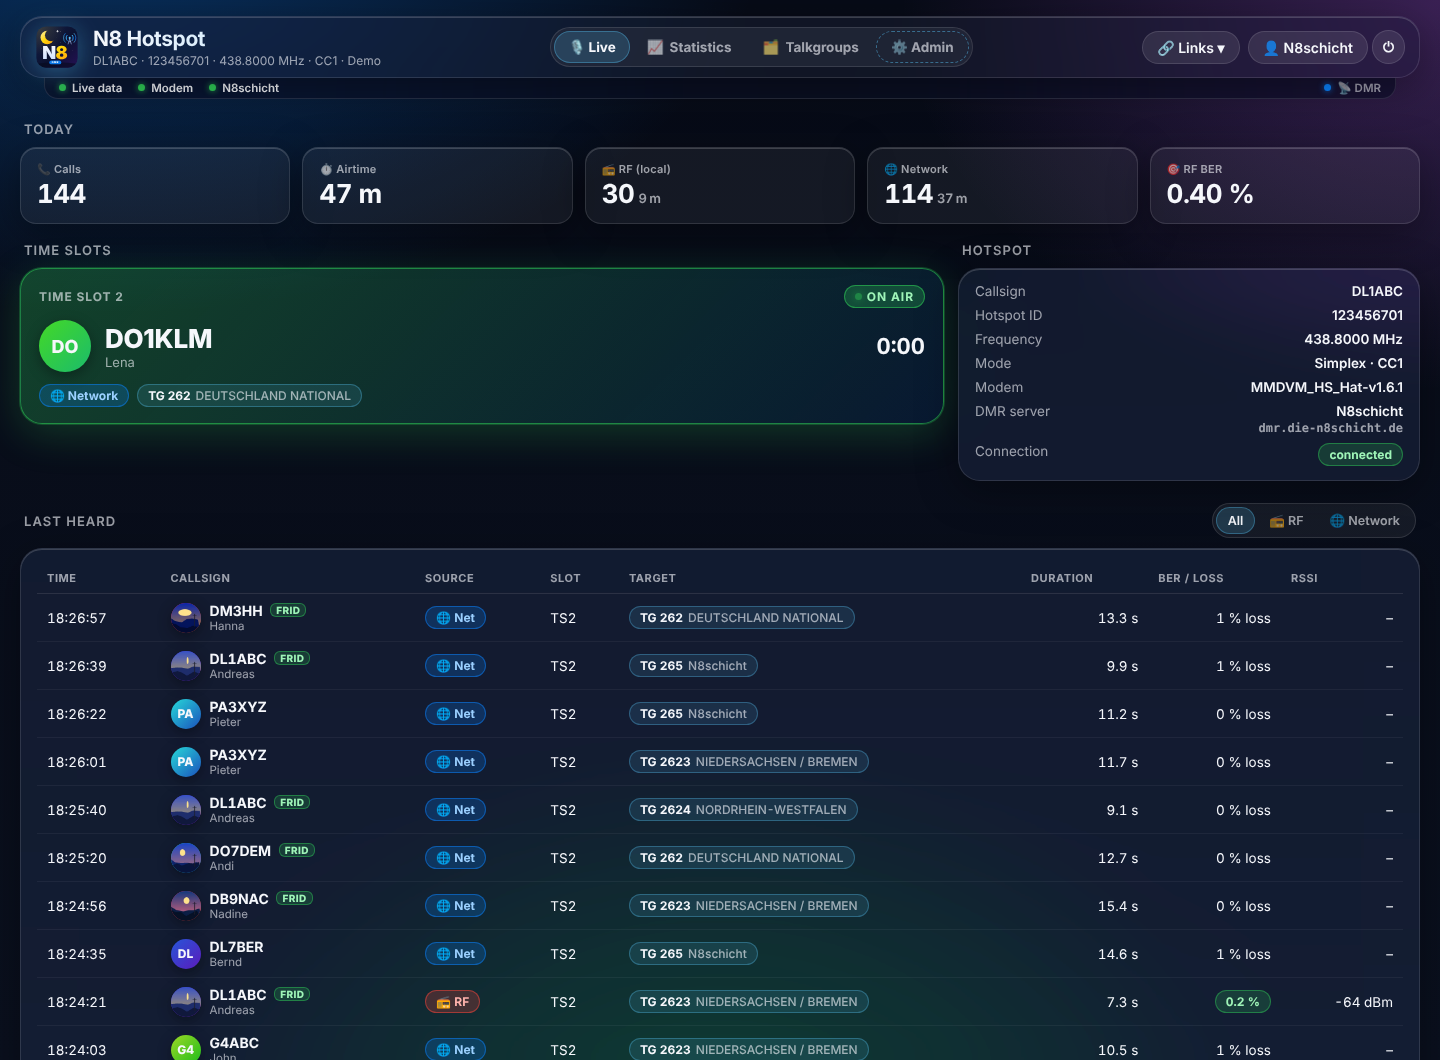
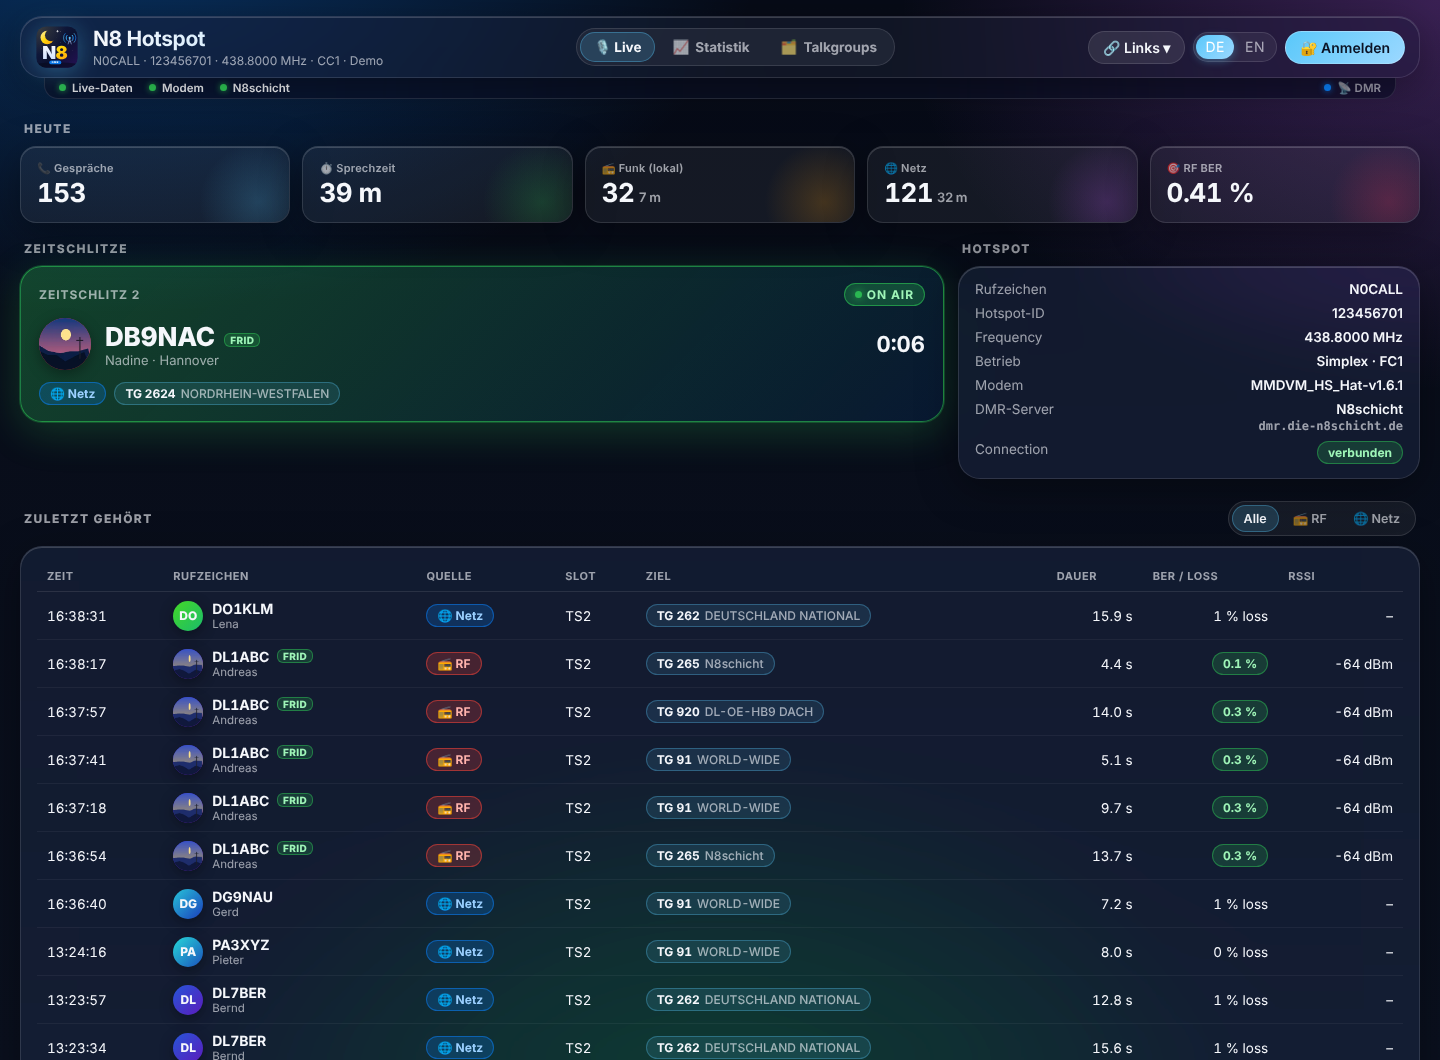
1.4.2: N8 Look – eine Designsprache mit dem HobbyRadioPortal
- static/n8-look.css (identisch im HobbyRadioPortal): durchgehender Hintergrund,
  leuchtende Kennzahl-Kacheln, Abschnittsüberschriften, Fußzeile als Glaskarte
  mit N8-Icon
- Hotspot bleibt eigenständig; im Portal nur als Verweis mit Erreichbarkeit
- Doku: Bedienung „Eine Designsprache mit dem HobbyRadioPortal“, Screenshots
  live.png und footer.png, CHANGELOG

Claude-Session: https://claude.ai/code/session_01J5RG2nh5KG4yZP2DtuvZ9u

diff --git a/static/n8-look.css b/static/n8-look.css
@@ -1,0 +1,30 @@
+/* N8 Look 1.0 – gemeinsame Designsprache von HobbyRadioPortal und N8-HotSpot.
+ * Dieselbe Datei in beiden Repositorys (Portal: portal/static/vendor, Hotspot: static). Sie liegt über N8 Theme 2
+ * und gleicht die Feinheiten an: durchgehender Hintergrund, Abschnittsüberschriften, leuchtende Kennzahl-Kacheln,
+ * ON-AIR-Puls und die Fußzeile als Glaskarte mit Icon. Klassen beider Projekte stehen nebeneinander. */
+
+/* Hintergrund des Themes über die ganze Seitenlänge */
+html { background: var(--bg, #070b17); }
+html body { background-attachment: fixed !important; min-height: 100vh; }
+
+/* Abschnittsüberschriften: klein, gesperrt, Großbuchstaben */
+h2.sec, h2.section-header { font-size: 12px; letter-spacing: .12em; text-transform: uppercase; color: var(--text-dim); font-weight: 780; }
+
+/* Kennzahl-Kacheln mit farbigem Leuchten unten rechts (Farbe über --c-rgb, sonst Akzent) */
+.kpi, .stat { position: relative; overflow: hidden; }
+.kpi::after, .stat::after { content: ''; position: absolute; right: -30px; bottom: -40px; width: 120px; height: 120px; border-radius: 50%;
+    background: radial-gradient(circle, rgba(var(--c-rgb, var(--accent-rgb, 90, 200, 250)), .2), transparent 70%); pointer-events: none; }
+.stat:nth-child(2) { --c-rgb: 48, 209, 88; } .stat:nth-child(3) { --c-rgb: 255, 159, 10; } .stat:nth-child(4) { --c-rgb: 191, 90, 242; } .stat:nth-child(5) { --c-rgb: 255, 55, 95; }
+
+/* ON AIR: pulsierender Punkt */
+.n8-air { width: 7px; height: 7px; border-radius: 50%; display: inline-block; background: #30d158;
+    box-shadow: 0 0 0 3px rgba(48, 209, 88, .25), 0 0 10px rgba(48, 209, 88, .9); animation: n8AirPulse 1.2s ease-in-out infinite; }
+@keyframes n8AirPulse { 50% { opacity: .35; } }
+
+/* Fußzeile als Glaskarte mit Icon */
+footer.ft, .site-footer { border-radius: var(--radius-lg, 22px) !important; padding: 14px 18px !important; gap: 10px 18px !important;
+    background: var(--glass-bg) !important; border: 1px solid var(--glass-border) !important;
+    box-shadow: inset 0 1px 0 var(--glass-highlight), var(--glass-shadow); -webkit-backdrop-filter: var(--glass-blur); backdrop-filter: var(--glass-blur); }
+footer.ft img, .site-footer img.n8-ft-icon { width: 22px; height: 22px; border-radius: 7px; vertical-align: middle; }
+.site-footer .ft-sep { display: none; }
+.site-footer a, footer.ft a { text-decoration: none; color: inherit; } .site-footer a:hover, footer.ft a:hover { color: var(--text); }

diff --git a/static/index.html b/static/index.html
@@ -13,6 +13,7 @@
     <link rel="stylesheet" href="/static/n8-light.css?v=1">
     <script src="/static/n8-theme.js?v=1"></script>
     <link rel="stylesheet" href="/static/n8-header.css?v=1">
+    <link rel="stylesheet" href="/static/n8-look.css?v=1">
     <link rel="stylesheet" href="/static/n8-kit.css?v=1">
     <script src="/static/n8-kit.js?v=1"></script>
     <script src="/static/i18n-app.js?v=1"></script>
@@ -162,6 +163,7 @@
     </section>
 
     <footer class="site-footer">
+        <img class="n8-ft-icon" src="/static/n8schicht-icon.svg" alt="">
         <span>© <span id="footerYear"></span> Die N8schicht</span>
         <span class="ft-sep">·</span><span id="ver" title="Installed version">N8-Hotspot</span>
         <span class="ft-sep">·</span><span id="footerDate" title="Date of the installed version"></span>

diff --git a/CHANGELOG.md b/CHANGELOG.md
@@ -4,6 +4,19 @@ Alle Versionen von **N8-Hotspot** (DMR Die N8schicht), die neueste oben.
 Die Nummern folgen [Semantic Versioning](https://semver.org/lang/de/): `MAJOR.MINOR.PATCH`.
 Wie Versionen und Updates funktionieren, steht in [docs/de/updates.md](docs/de/updates.md).
 
+## [1.4.2] – 2026-11-24
+
+### 🎨 Eine Designsprache mit dem HobbyRadioPortal
+Der N8 Hotspot bleibt **eigenständig** (eigenes Image, eigene Weboberfläche, kein Plugin im Portal), spricht aber jetzt
+dieselbe Designsprache wie das neue [HobbyRadioPortal](https://github.com/dhartmann1979/HobbyRadioPortal):
+- **N8 Look 1.0** (`static/n8-look.css`) – dieselbe Datei wie im Portal (`portal/static/vendor/n8-look.css`). Sie liegt über N8 Theme 2 und gleicht die Feinheiten an:
+  - der Hintergrund des Themes läuft über die ganze Seitenlänge (vorher endete der Farbverlauf nach einer Bildschirmhöhe),
+  - die Kennzahl-Kacheln unter **Heute** leuchten unten rechts in eigener Farbe (Gespräche blau, Sprechzeit grün, Funk orange, Netz violett, BER rot) wie die Kacheln im Portal,
+  - Abschnittsüberschriften klein, gesperrt und in Großbuchstaben wie im Portal,
+  - die **Fußzeile** ist eine Glaskarte mit dem N8-Icon.
+- Im Portal erscheint der Hotspot (abschaltbar) nur als Verweis mit Erreichbarkeitsprüfung – siehe Plugin `hotspot` im Portal.
+- Doku: Screenshot **Live** neu, neuer Screenshot der Fußzeile (`docs/images/footer.png`), Abschnitt „Aussehen“ in der Bedienung ergänzt.
+
 ## [1.4.1] – 2026-11-24
 
 ### 🌐 N8 Kit 1.0.1

diff --git a/docs/de/bedienung.md b/docs/de/bedienung.md
@@ -12,6 +12,18 @@ Dieser Teil ist der **Sichtbereich**: ohne Login sichtbar, solange *Public view*
   <img src="../images/live-mobile.png" alt="Live am Smartphone" width="22%">
 </p>
 
+## 🎨 Eine Designsprache mit dem HobbyRadioPortal
+
+Der N8 Hotspot bleibt eigenständig, sieht aber aus wie das [HobbyRadioPortal](https://github.com/dhartmann1979/HobbyRadioPortal):
+gleiches Farbsystem (N8 Theme 2), gleiche Kopfzeile mit Statusleiste und seit 1.4.2 die gemeinsame Datei **N8 Look**
+(`static/n8-look.css`, identisch im Portal). Sie sorgt für den durchgehenden Hintergrund, die farbig leuchtenden Kacheln
+unter **Heute**, die Abschnittsüberschriften und die Fußzeile als Glaskarte:
+
+<p align="center"><img src="../images/footer.png" alt="Fußzeile im N8 Look" width="90%"></p>
+
+Im Portal kann der Hotspot als Verweis erscheinen (Plugin `hotspot`, Vorgabe aus). Das Portal prüft dann nur,
+ob die Oberfläche erreichbar ist, und verlinkt sie im Menü „Links“.
+
 ## Kopfzeile und Statusleiste
 
 Oben gibt es **ein** Menü: links Logo, Titel und Untertitel, in der Mitte die Reiter, rechts Links und Anmeldung.
